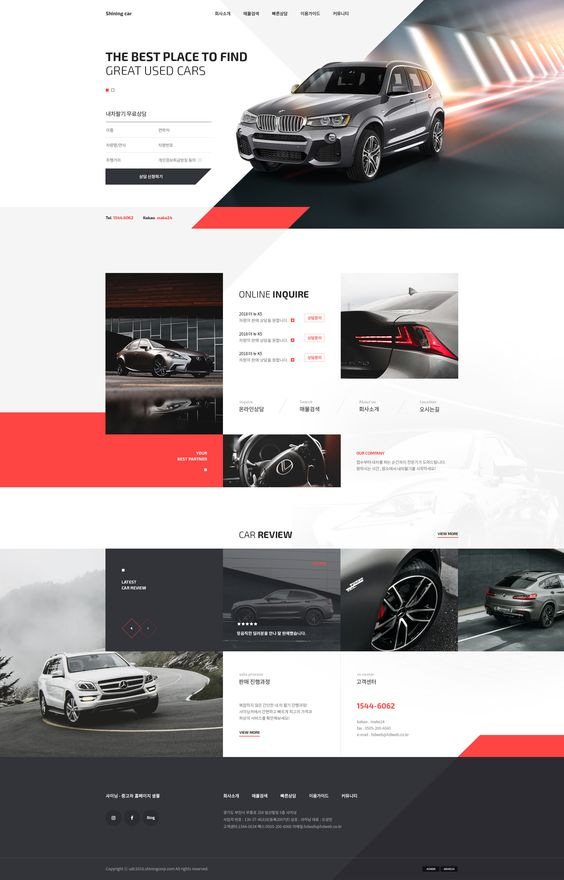
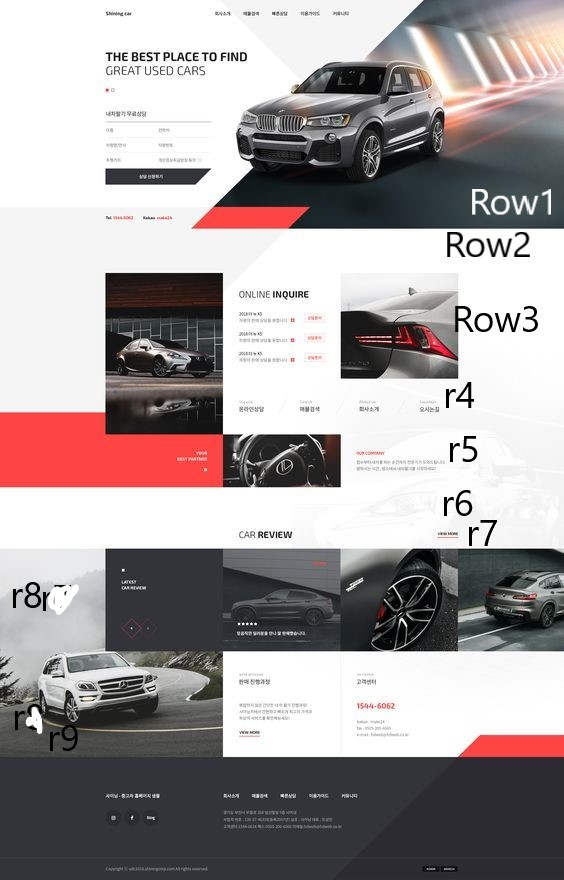
gg

diff --git a/UID-PROJ-ARAV-ABI/s1-CarRentals/s1-CarRentals.html b/UID-PROJ-ARAV-ABI/s1-CarRentals/s1-CarRentals.html
@@ -1,0 +1,153 @@
+<!DOCTYPE html> 
+
+<html> 
+
+    <head>
+        <title>
+            Title / tab name
+        </title>
+        <style>
+            *{
+               padding: 0px; margin: 0px;
+            }
+            img{
+                display: block;
+            }
+        </style>
+    </head>
+
+    <body>
+        <table cellpadding="0" cellspacing="0" width="100%" border="1" bgcolor="">
+            <!-- row 1-->
+            <tr>                
+                <td colspan="1" width=20%>
+                    <center>WHITE SPACE</center>                        
+                </td>
+                <td colspan="4" width=80%>
+                    <img src="" width="100%" height="650">
+                </td>
+            </tr>
+
+            <!-- row 2-->
+            <tr>
+                <td colspan="5" width=100%>
+                    <center>WHITE SPACE</center>                        
+                </td>
+            </tr>
+
+            <!-- row 3-->
+            <tr>
+                <td width=20%>
+                    <center>WHITE SPACE</center>                        
+                </td>
+                <td width=20%>
+                    <img src="" width="100%" height="200">
+                </td>
+                <td width=20%>
+                    <img src="" width="100%" height="200">
+                </td>
+                <td width=20%>
+                    <img src="" width="100%" height="200">
+                </td>
+                <td width=20%>
+                    <center>WHITE SPACE</center>                        
+                </td>
+            </tr>
+
+            <!-- row 4-->
+            <tr>
+                <td width=20%>
+                    <center>WHITE SPACE</center>                        
+                </td>
+                <td width=20%>
+                    <img src="" width="100%" height="200">
+                </td>
+                <td width=20%>
+                    <img src="" width="100%" height="200">
+                </td>
+                <td width=20%>
+                    <img src="" width="100%" height="200">
+                </td>
+                <td width=20%>
+                    <center>WHITE SPACE</center>                        
+                </td>
+            </tr>
+
+            <!-- row 5-->
+            <tr>
+                <td colspan="2" width=40%>
+                    <center>BGCOLOR</center>                        
+                </td>
+                <td width=20%>
+                    <img src="" width="100%" height="200">
+                </td>
+                <td width=20%>
+                    <img src="" width="100%" height="200">
+                </td>
+                <td width=20%>
+                    <center>WHITE SPACE</center>                        
+                </td>
+            </tr>
+
+            <!-- row 6 -->
+            <tr>
+                <td colspan="5" width=100%>
+                    <center>WHITE SPACE</center>                        
+                </td>
+            </tr>
+
+            <!-- row 7 for heading-->
+            <tr>
+                <td width=20%>
+                    <center>HEADING</center>                        
+                </td>
+                <td width=20%>
+                    <center>HEADING</center>                        
+                </td>
+                <td width=20%>
+                    <center>HEADING</center>                        
+                </td>
+                <td width=20%>
+                    <center>HEADING</center>                        
+                </td>
+                <td width=20%>
+                    <center>HEADING</center>                        
+                </td>
+            </tr>
+
+            <!-- row 8-->
+            <tr>
+                <td width=20%>
+                    <img src="" width="100%" height="200">
+                </td>
+                <td width=20%>
+                    <img src="" width="100%" height="200">
+                </td>
+                <td width=20%>
+                    <img src="" width="100%" height="200">
+                </td>
+                <td width=20%>
+                    <img src="" width="100%" height="200">
+                </td>
+                <td width=20%>
+                    <img src="" width="100%" height="200">
+                </td>
+            </tr>
+
+            <!-- row 9-->
+            <tr>
+                <td colspan="2" width=20%>
+                    <img src="" width="100%" height="200">
+                </td>
+                <td width=20%>
+                    <img src="" width="100%" height="200">
+                </td>
+                <td width=20%>
+                    <img src="" width="100%" height="200">
+                </td>
+                <td width=20%>
+                    <center>FOOTER COLOR MATCH</center>                        
+                </td>
+            </tr>
+        </table>
+    </body>
